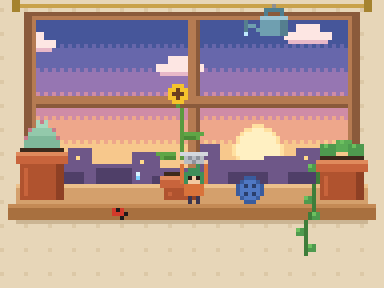
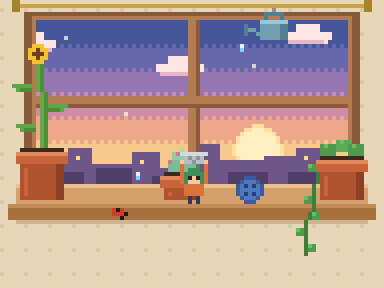
Thimbleful: sunflower back on the left, plus a charm pass
- Your sunflower grows in the big pot on the left again; succulent returns to the middle pot
- Intro: she tosses the seed over her shoulder into the big pot
- Explorer faces the way she walks, hops on catches and bobs while idle
- On the title screen and in watch mode she potters along the sill on her own
- A butterfly drifts around the window when nobody is playing
- Watering can swings as it slides; dust motes stay in the light during play
- A burst of petals and a chime when the sunflower blooms and grows
- Rebuild preview card and thumbnail; restamp file links

Claude-Session: https://claude.ai/code/session_01LYFj8Wnu6iP9TftHkn7E9a

diff --git a/site/thimbleful/game.js b/site/thimbleful/game.js
@@ -1,8 +1,8 @@
 // Thimbleful: a tiny explorer catches drips from a leaking watering can to grow a sunflower.
-// States: title (live windowsill scene) -> intro (first play only: plant the seed) -> play -> over.
+// States: title (live windowsill scene) -> intro (first play only: plant the seed in the big pot) -> play -> over.
 // "Just watch" puts the scene in a passive mode with no game on top.
 const c = document.getElementById('c'), g = c.getContext('2d');
-const W = 96, H = 72, MAXSPILL = 5, POT_X = 45, CAN_HOME = 52, CAN_AWAY = -14;
+const W = 96, H = 72, MAXSPILL = 5, SUN_X = 10, SUN_BASE = 36, PLANT_STAND = 21, CAN_HOME = 52, CAN_AWAY = -14;
 const R = (a, b, w, h, k) => { g.fillStyle = k; g.fillRect(Math.round(a), Math.round(b), w, h); };
 const P = (a, b, k) => R(a, b, 1, 1, k);
 function disc(cx, cy, r, k) { for (let j = -r; j <= r; j++) for (let i = -r; i <= r; i++) if (i * i + j * j <= r * r + r * 0.6) P(cx + i, cy + j, k); }
@@ -20,7 +20,8 @@ let introSeen = store.get('thimbleful-intro-seen') === '1';
 
 let state = 'title', score = 0, spills = 0, el = 0, ex = 32, target = null, walk = 0, moved = false, flash = 0, time = 0, dropT = 1.2;
 let pose = 'seed';                         // seed: holding the seed, thimble on back | back: thimble on back | up: thimble held overhead
-const plant = { planted: false, size: 0 }; // the sunflower grown in the middle pot
+const plant = { planted: false, size: 0 }; // the sunflower grown in the big pot on the left
+let facing = 1, hop = 0, wander = { next: 3, to: null };
 const keys = { l: false, r: false }, can = { x: CAN_AWAY, tx: 60, want: CAN_AWAY };
 let drops = [], parts = [], wet = [], intro = null, seedFall = null;
 
@@ -48,11 +49,11 @@ function start(withIntro) {
   if (!introSeen) {
     // first play: walk to the pot, plant the seed, the can slides in, thimble goes up
     plant.planted = false; plant.size = 0; pose = 'seed';
-    state = 'intro'; intro = { t: 0, planted: false }; ex = 32;
+    state = 'intro'; intro = { t: 0, planted: false }; ex = 32; facing = -1;
     can.x = Math.min(can.x, CAN_AWAY); can.want = CAN_HOME;
     skipBtn.hidden = false;
   } else {
-    plant.planted = true; plant.size = 0; pose = 'up'; ex = 48; walk = 0;
+    plant.planted = true; plant.size = 0; pose = 'up'; ex = 48; walk = 0; facing = 1;
     can.want = null; if (can.x < 8) can.x = CAN_AWAY;
     state = 'play'; dropT = can.x < 8 ? 1.6 : 1.1;
   }
@@ -67,7 +68,7 @@ function finishIntro() {
 function end() {
   state = 'over'; drops = []; ThimbleSound.over();
   if (score > best) { best = score; store.set('thimbleful-best', String(best)); }
-  hud(); can.want = can.x;
+  hud(); can.want = can.x; facing = ex > SUN_X ? -1 : 1; wander.next = 4;
   showCard('The sill is soaked', `You caught ${score} drop${score === 1 ? '' : 's'} and grew your sunflower. Best: ${best}.`, 'Play again');
   go.focus();
 }
@@ -75,7 +76,7 @@ function watch() {
   state = 'watch'; drops = []; target = null;
   overlay.hidden = true; skipBtn.hidden = true; leaveBtn.hidden = false;
   main.classList.add('watching');
-  pose = plant.planted ? 'back' : 'seed'; can.want = CAN_AWAY;
+  pose = plant.planted ? 'back' : 'seed'; can.want = CAN_AWAY; wander.next = 2;
   hint.textContent = 'Just watching. Tap Play in the corner to get back to the game.';
 }
 function leaveWatch() {
@@ -163,14 +164,30 @@ function burst(x, y, n, spread, lift, col) { for (let i = 0; i < n; i++) parts.p
 
 function updateIntro(dt) {
   intro.t += dt;
-  const standX = POT_X - 7;
-  if (Math.abs(ex - standX) > 0.3) { ex += Math.sign(standX - ex) * Math.min(Math.abs(standX - ex), 22 * dt); moved = true; walk += dt; }
-  else if (!intro.planted && !seedFall) { seedFall = { x: Math.round(ex) + 6, y: 42, t: 0 }; pose = 'back'; }
+  if (Math.abs(ex - PLANT_STAND) > 0.3) { facing = Math.sign(PLANT_STAND - ex); ex += facing * Math.min(Math.abs(PLANT_STAND - ex), 22 * dt); moved = true; walk += dt; }
+  else if (!intro.planted && !seedFall) {
+    // she tosses the seed over her shoulder into the big pot
+    facing = 1; hop = 0.18; pose = 'back';
+    seedFall = { x0: Math.round(ex) + 4, y0: 41, t: 0, x: 0, y: 0 };
+  }
   if (seedFall) {
-    seedFall.t += dt; seedFall.x += (POT_X - seedFall.x) * Math.min(1, dt * 10); seedFall.y += 14 * dt;
-    if (seedFall.y >= 43) { seedFall = null; intro.planted = true; plant.planted = true; ThimbleSound.plant(); burst(POT_X, 42, 3, 14, 8, '#6b4a2c'); }
+    seedFall.t += dt; const u = Math.min(1, seedFall.t / 0.6);
+    seedFall.x = seedFall.x0 + (SUN_X - seedFall.x0) * u; seedFall.y = seedFall.y0 + (SUN_BASE - seedFall.y0) * u - 14 * 4 * u * (1 - u);
+    if (u >= 1) { seedFall = null; intro.planted = true; plant.planted = true; ThimbleSound.plant(); burst(SUN_X, SUN_BASE, 4, 14, 8, '#6b4a2c'); }
   }
   if (intro.planted && Math.abs(can.x - CAN_HOME) < 1 && intro.t > 1.6) finishIntro();
+}
+
+// in the title screen and watch mode she potters about the sill on her own
+function idle(dt) {
+  if (wander.to === null) {
+    wander.next -= dt;
+    if (wander.next <= 0 && !calm) wander.to = 22 + Math.random() * 52;
+    return;
+  }
+  const d = wander.to - ex;
+  if (Math.abs(d) < 0.4) { wander.to = null; wander.next = 4 + Math.random() * 5; if (Math.random() < 0.4) hop = 0.18; return; }
+  facing = Math.sign(d); ex += facing * Math.min(Math.abs(d), 13 * dt); moved = true; walk += dt;
 }
 
 let shownState = '';
@@ -181,8 +198,9 @@ function update(dt) {
   parts = parts.filter(p => p.life > 0);
   for (const w of wet) w.t -= dt;
   wet = wet.filter(w => w.t > 0);
+  hop = Math.max(0, hop - dt);
   if (state === 'intro') { moveCan(dt, 0); updateIntro(dt); return; }
-  if (state !== 'play') { moveCan(dt, 14); return; }
+  if (state !== 'play') { moveCan(dt, 14); if (state === 'title' || state === 'watch') idle(dt); return; }
   el += dt; ThimbleSound.intensity(el);
   const interval = Math.max(0.48, 1.45 - el * 0.018), fall = Math.min(56, 20 + el * 0.55);
   moveCan(dt, 16 + el * 0.45);
@@ -191,15 +209,17 @@ function update(dt) {
   if (mv) ex += mv * sp * dt;
   else if (target !== null) { const d = target - ex; ex += Math.sign(d) * Math.min(Math.abs(d), sp * 1.2 * dt); }
   ex = Math.max(7, Math.min(89, ex));
-  moved = Math.abs(ex - before) > 0.05; if (moved) walk += dt;
+  moved = Math.abs(ex - before) > 0.05; if (moved) { walk += dt; facing = ex > before ? 1 : -1; }
   dropT -= dt;
   if (dropT <= 0 && can.x > 6) { drops.push({ x: Math.round(can.x) - 4, y: 9, vy: fall }); dropT = interval * (0.75 + Math.random() * 0.5); }
   const mid = Math.round(ex);
   for (const d of drops) {
     const py = d.y; d.y += d.vy * dt;
     if (py < 38 && d.y >= 38 && Math.abs(d.x - mid) <= 3.5) {
-      d.done = true; score++; plant.size = score; flash = 0.3; burst(d.x, 37, 4, 30, 20); hud();
-      ThimbleSound.catch(); if (score % 10 === 0) ThimbleSound.milestone();
+      d.done = true; score++; plant.size = score; flash = 0.3; hop = 0.12; burst(d.x, 37, 4, 30, 20); hud();
+      ThimbleSound.catch();
+      if (score === 14 || score === 20 || score === 26) { const f = flowerPos(); burst(f.x, f.y, 10, 40, 22, '#ffd84a'); ThimbleSound.milestone(); }
+      else if (score % 10 === 0) ThimbleSound.milestone();
     } else if (d.y >= 48) {
       d.done = true; spills++; wet.push({ x: d.x, t: 3 }); burst(d.x, 47, 5, 36, 14); hud();
       if (spills >= MAXSPILL) { end(); break; }
@@ -224,7 +244,7 @@ function scene() {
   for (const [bx, bw, bh] of far) R(bx, 46 - bh, bw, bh, '#6e5788');
   for (const [lx, ly] of lit) P(lx, ly, (Math.floor(time * 0.7 + lx) % 5) ? '#ffd98a' : '#6e5788');
   for (const [bx, bw, bh] of near) R(bx, 46 - bh, bw, bh, '#4f3f68');
-  if (state !== 'play') for (let i = 0; i < 10; i++) { const mx = 12 + ((i * 29 + time * 1.2 * (1 + i % 3)) % 72), my = 8 + ((i * 17) % 30) + Math.sin(time * 0.8 + i) * 2; P(mx, my, 'rgba(255,246,216,0.75)'); }
+  for (let i = 0; i < (state === 'play' ? 5 : 10); i++) { const mx = 12 + ((i * 29 + time * 1.2 * (1 + i % 3)) % 72), my = 8 + ((i * 17) % 30) + Math.sin(time * 0.8 + i) * 2; P(mx, my, 'rgba(255,246,216,0.75)'); }
   g.restore();
   R(47, 5, 2, 41, '#b57b52'); R(49, 5, 1, 41, '#8a5a3b'); R(9, 24, 78, 2, '#b57b52'); R(9, 26, 78, 1, '#8a5a3b');
   R(4, 1, 88, 1, '#c9a24a'); R(3, 0, 2, 3, '#a5832f'); R(91, 0, 2, 3, '#a5832f');
@@ -238,30 +258,38 @@ function flower(fx, fy, r) {
   if (r >= 3) { P(fx - 1, fy - 1, '#4a2a14'); P(fx + 1, fy, '#4a2a14'); }
 }
 
+function sunflowerTop() { return SUN_BASE - Math.min(26, 2 + Math.floor(plant.size * 1.1)); }
+function flowerPos() {
+  const sw = calm ? 0 : Math.sin(time * 1.2), top = sunflowerTop();
+  return { x: SUN_X + Math.round(sw * (SUN_BASE - top) / 24 * 1.6), y: top - 2 };
+}
+
 function plants() {
   const sw = calm ? 0 : Math.sin(time * 1.2);
-  // a succulent on the left; the only sunflower on the sill is the one the player grows
-  R(6, 34, 9, 3, '#7fb89a'); R(7, 32, 7, 2, '#93c9ab'); R(9, 30, 3, 2, '#a8d8bd');
-  P(6, 34, '#c97b8a'); P(14, 34, '#c97b8a'); P(7, 32, '#c97b8a'); P(13, 32, '#c97b8a'); P(10, 30, '#c97b8a');
-  pot(5, 37, 11, 13);
-
-  // the seed pot in the middle: grows with every catch
-  const base = 42;
+  // your sunflower, in the big pot on the left
   if (plant.planted) {
     const s = plant.size;
-    if (s === 0) { P(POT_X, base, '#6b4a2c'); P(POT_X - 1, base, '#5a3d24'); }
+    if (s === 0) { R(SUN_X, SUN_BASE, 2, 1, '#6b4a2c'); P(SUN_X + 1, SUN_BASE - 1, '#5fa646'); }
     else {
-      const h = Math.min(24, 1 + Math.floor(s * 0.9)), top = base - h;
-      const o2 = y => Math.round(sw * (base - y) / 24 * 1.4);
-      for (let y = base; y >= top; y--) P(POT_X + o2(y), y, '#5a9a3f');
-      if (h <= 3) { P(POT_X - 1 + o2(top), top, '#6cbf5f'); P(POT_X + 1 + o2(top), top, '#6cbf5f'); }
-      for (let k = 4, side = -1; base - k > top + 3; k += 5, side = -side) leaf(side < 0 ? POT_X - 1 + o2(base - k) : POT_X + 1 + o2(base - k), base - k, side);
-      const fx = POT_X + o2(top);
-      if (s >= 14) flower(fx, top - 2, Math.min(4, 2 + Math.floor((s - 14) / 6)));
-      else if (s >= 8) { disc(fx, top - 1, 1, '#5fa646'); if (s >= 11) P(fx, top - 2, '#f5c32c'); }
+      const top = sunflowerTop(), off = y => Math.round(sw * (SUN_BASE - y) / 24 * 1.6);
+      for (let y = SUN_BASE; y >= top; y--) { R(SUN_X + off(y), y, 2, 1, '#4f8f3a'); P(SUN_X + off(y), y, '#67a84c'); }
+      if (s < 4) { P(SUN_X - 1 + off(top), top, '#6cbf5f'); P(SUN_X + 2 + off(top), top, '#6cbf5f'); }
+      for (let k = 5, side = -1; SUN_BASE - k > top + 3; k += 5, side = -side) leaf(side < 0 ? SUN_X - 1 + off(SUN_BASE - k) : SUN_X + 2 + off(SUN_BASE - k), SUN_BASE - k, side);
+      const fx = SUN_X + off(top);
+      if (s >= 14) {
+        const r = Math.min(4, 2 + Math.floor((s - 14) / 6));
+        flower(fx, top - r, r);
+        // the head nods now and then
+        if (!calm && (time % 7) < 0.4) P(fx, top - r * 2 - 1, '#f5c32c');
+      } else if (s >= 8) { disc(fx, top - 1, 1, '#5fa646'); if (s >= 11) P(fx, top - 2, '#f5c32c'); }
     }
-  }
-  pot(POT_X - 4, 43, 9, 7);
+  } else R(SUN_X - 2, SUN_BASE, 6, 1, '#4a3322');
+  pot(5, 37, 11, 13);
+
+  // succulent in the middle pot
+  R(42, 40, 7, 3, '#7fb89a'); R(43, 38, 5, 2, '#93c9ab'); P(45, 37, '#a8d8bd');
+  P(42, 40, '#c97b8a'); P(48, 40, '#c97b8a'); P(44, 38, '#c97b8a');
+  pot(41, 43, 9, 7);
 
   disc(62, 47, 3, '#3a5c9e'); disc(62, 47, 2, '#4f78c4'); P(61, 46, '#2a3f6e'); P(63, 46, '#2a3f6e'); P(61, 48, '#2a3f6e'); P(63, 48, '#2a3f6e');
 
@@ -271,14 +299,28 @@ function plants() {
   R(80, 36, 4, 3, '#4e9a4e'); R(84, 35, 4, 3, '#5aab55'); R(87, 36, 4, 3, '#4e9a4e'); P(81, 36, '#6cbf5f'); P(85, 35, '#6cbf5f'); P(88, 36, '#6cbf5f');
 }
 
+// a butterfly drifts around the window when nobody is playing
+function butterfly() {
+  if (state === 'play' || state === 'intro') return;
+  const t = time, x = Math.round(36 + 24 * Math.sin(t * 0.45) + 5 * Math.sin(t * 1.9)), y = Math.round(20 + 7 * Math.sin(t * 0.7) + 2 * Math.sin(t * 2.3));
+  const up = !calm && Math.floor(t * 7) % 2 === 0;
+  P(x, y, '#3a3550');
+  if (up) { P(x - 1, y - 1, '#f6a6c8'); P(x + 1, y - 1, '#f6a6c8'); P(x - 2, y - 1, '#ffd2e4'); P(x + 2, y - 1, '#ffd2e4'); }
+  else { P(x - 1, y, '#f6a6c8'); P(x + 1, y, '#f6a6c8'); P(x - 1, y + 1, '#ffd2e4'); P(x + 1, y + 1, '#ffd2e4'); }
+}
+
+let lastCanX = 0;
 function wateringCan() {
   const cx = Math.round(can.x);
+  const swinging = Math.abs(can.x - lastCanX) > 0.01 && !calm; lastCanX = can.x;
   if (cx < -10) return;
+  g.save(); if (swinging && Math.floor(time * 5) % 2) g.translate(0, 1);
   P(cx + 3, 1, '#8f8f8f');
   R(cx + 1, 2, 5, 1, '#4f7f90'); P(cx + 1, 3, '#4f7f90'); P(cx + 5, 3, '#4f7f90');
   R(cx, 4, 7, 5, '#6f9fb0'); R(cx, 4, 7, 1, '#9cc6d4'); R(cx + 5, 5, 2, 4, '#557f8f');
   P(cx - 1, 7, '#6f9fb0'); P(cx - 2, 6, '#6f9fb0'); P(cx - 3, 6, '#6f9fb0'); R(cx - 4, 5, 1, 3, '#557f8f');
   if (state === 'play' && dropT < 0.3) P(cx - 4, 8, '#bfe8ff');
+  g.restore();
 }
 
 function legs(L) {
@@ -292,6 +334,14 @@ function face(L) {
 }
 function explorer() {
   const L = Math.round(ex) - 3;
+  const idleBob = !moved && state !== 'play' && !calm && (time % 2.6) < 0.18;
+  g.save();
+  if (facing < 0) { g.translate(2 * Math.round(ex) + 1, 0); g.scale(-1, 1); }
+  if (hop > 0 || idleBob) g.translate(0, -1);
+  drawExplorer(L);
+  g.restore();
+}
+function drawExplorer(L) {
   if (pose === 'up') {
     R(L, 38, 7, 1, '#d4d8de'); R(L + 1, 39, 5, 2, '#b8bcc4'); P(L + 2, 39, '#8d929c'); P(L + 4, 39, '#8d929c'); P(L + 3, 40, '#8d929c');
     if (flash > 0) R(L + 1, 38, 5, 1, '#7fd0ff');
@@ -312,7 +362,7 @@ function ladybug() {
 }
 
 function draw() {
-  scene(); plants(); ladybug(); wateringCan();
+  scene(); plants(); butterfly(); ladybug(); wateringCan();
   for (const d of drops) { P(d.x, d.y, '#d9f3ff'); P(d.x, d.y + 1, '#7fd0ff'); }
   explorer();
   if (seedFall) { R(seedFall.x, seedFall.y, 2, 2, '#3b2c22'); }

diff --git a/site/thimbleful/index.html b/site/thimbleful/index.html
@@ -11,14 +11,14 @@
 <meta property="og:title" content="Thimbleful · JonniePeed Games">
 <meta property="og:description" content="Plant a seed on a sunset windowsill and catch the drips from a leaking watering can to grow it. A tiny pixel game for phone or desktop.">
 <meta property="og:url" content="https://jonniesparkles.github.io/jonniepeed-games/thimbleful/index.html">
-<meta property="og:image" content="https://jonniesparkles.github.io/jonniepeed-games/assets/og/thimbleful.png?v=acb7b06d39">
+<meta property="og:image" content="https://jonniesparkles.github.io/jonniepeed-games/assets/og/thimbleful.png?v=bfc63a2358">
 <meta property="og:image:width" content="1200">
 <meta property="og:image:height" content="630">
 <meta property="og:image:alt" content="Pixel art of a tiny explorer on a windowsill holding up a thimble to catch drips from a watering can">
 <meta name="twitter:card" content="summary_large_image">
 <meta name="twitter:title" content="Thimbleful · JonniePeed Games">
 <meta name="twitter:description" content="Plant a seed on a sunset windowsill and catch the drips from a leaking watering can to grow it. A tiny pixel game for phone or desktop.">
-<meta name="twitter:image" content="https://jonniesparkles.github.io/jonniepeed-games/assets/og/thimbleful.png?v=acb7b06d39">
+<meta name="twitter:image" content="https://jonniesparkles.github.io/jonniepeed-games/assets/og/thimbleful.png?v=bfc63a2358">
 <meta name="twitter:image:alt" content="Pixel art of a tiny explorer on a windowsill holding up a thimble to catch drips from a watering can">
 <link rel="icon" href="../favicon.ico?v=443c0101ac" sizes="any">
 <link rel="icon" type="image/png" href="../assets/favicon-32.png?v=569f3f592d">
@@ -125,6 +125,6 @@ button:focus-visible{outline:2px solid var(--cream);outline-offset:3px}
   <p class="hint" id="hint">Drag anywhere on the scene to move. On a keyboard, use the arrow keys, M to mute and F for full screen.</p>
 </main>
 <script src="audio.js?v=cd567a2e80"></script>
-<script src="game.js?v=00c9df978c"></script>
+<script src="game.js?v=d86d27c875"></script>
 </body>
 </html>

diff --git a/site/index.html b/site/index.html
@@ -84,7 +84,7 @@ footer img{width:20px;height:22px;image-rendering:pixelated}
   <h2>Games</h2>
   <div class="grid">
     <a class="card" href="thimbleful/index.html">
-      <div class="thumb"><img class="px" src="assets/thumb-thimbleful.png?v=d90284955f" width="384" height="288" alt="Pixel windowsill with a tiny explorer holding a thimble under a leaking watering can"></div>
+      <div class="thumb"><img class="px" src="assets/thumb-thimbleful.png?v=5ef1bd450f" width="384" height="288" alt="Pixel windowsill with a tiny explorer holding a thimble under a leaking watering can"></div>
       <div class="info">
         <span class="tag">Game · phone or desktop</span>
         <h3>Thimbleful</h3>
